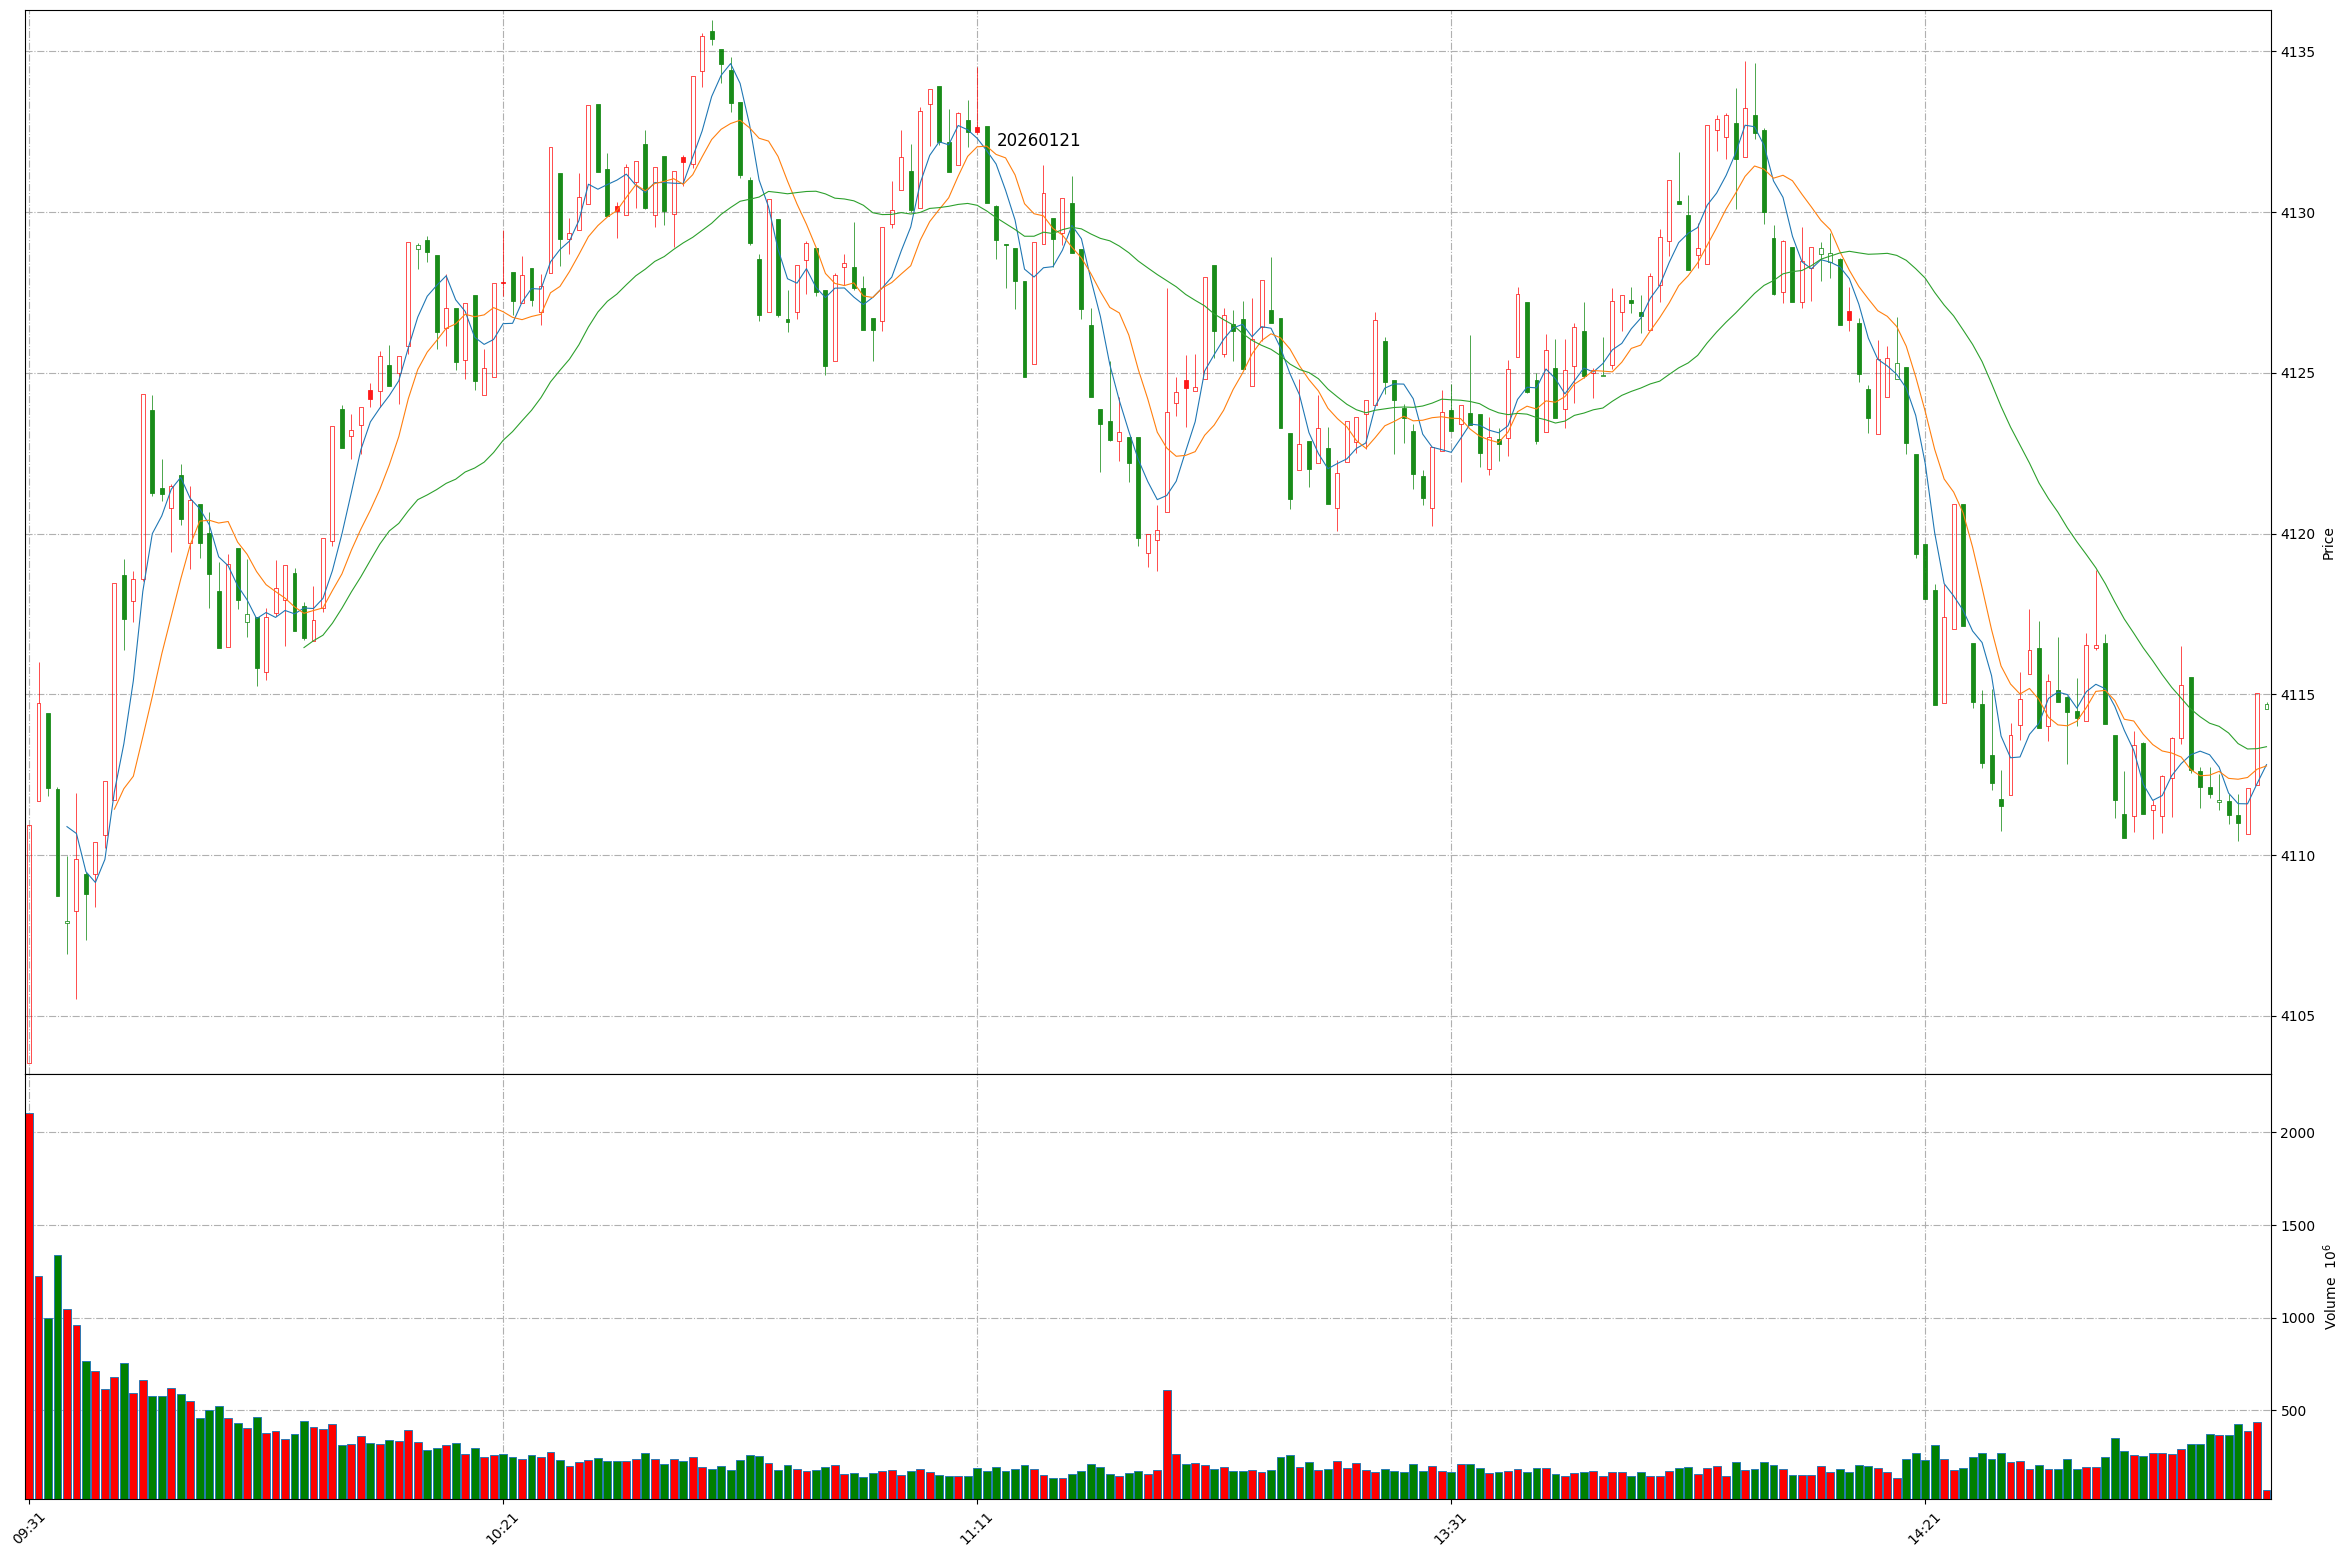
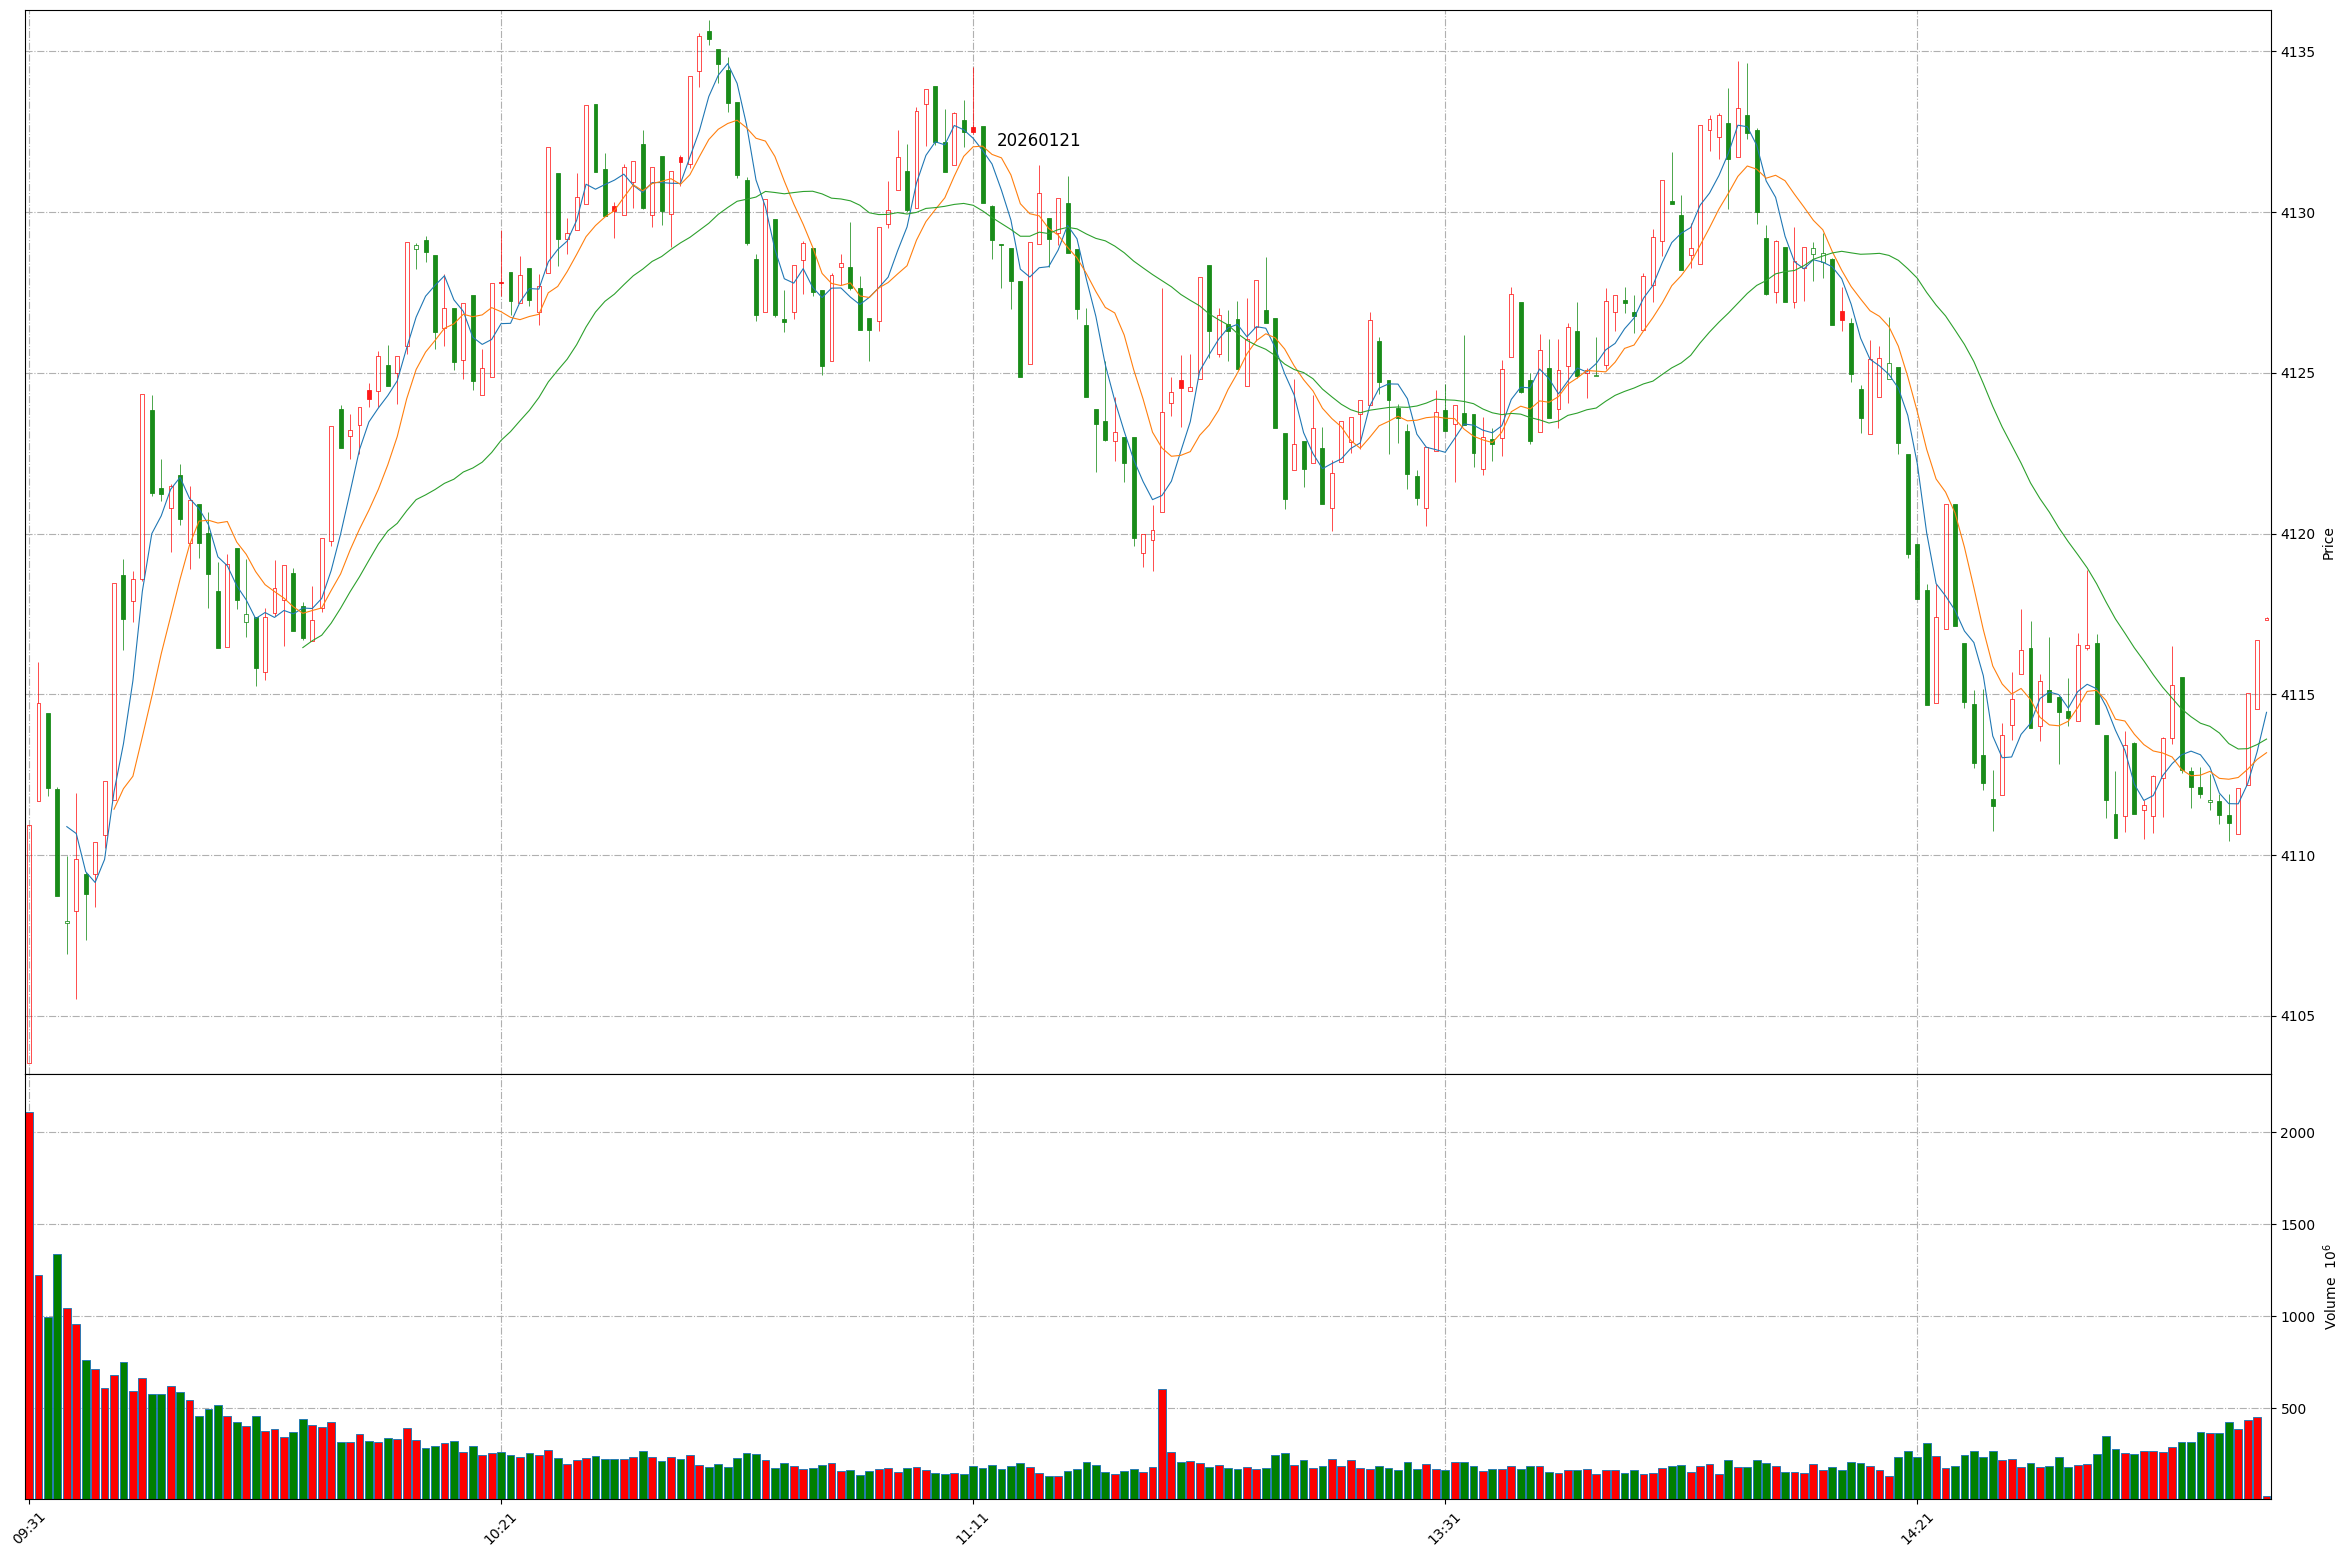
Github action update at 2026-01-21 14:57:41.

Changed region(s): [[0.1554, 0.0308, 0.9634, 0.5241], [0.0311, 0.894, 0.9634, 0.9865], [0.0622, 0.2775, 0.1554, 0.4316]]

diff --git a/README.md b/README.md
@@ -1,11 +1,11 @@
 
 # Daily-A-share-market-quotes 每日 A 股指数（5min 更新）- 20260121
 
-### 上证指数 20260121 14:56
+### 上证指数 20260121 14:57
 ![](./fig/2026/1/20260121-sh000001.png)
 
-### 深证成指 20260121 14:56
+### 深证成指 20260121 14:57
 ![](./fig/2026/1/20260121-sz399001.png)
 
-### 北证50 20260121 14:56
+### 北证50 20260121 14:57
 ![](./fig/2026/1/20260121-bj899050.png)
